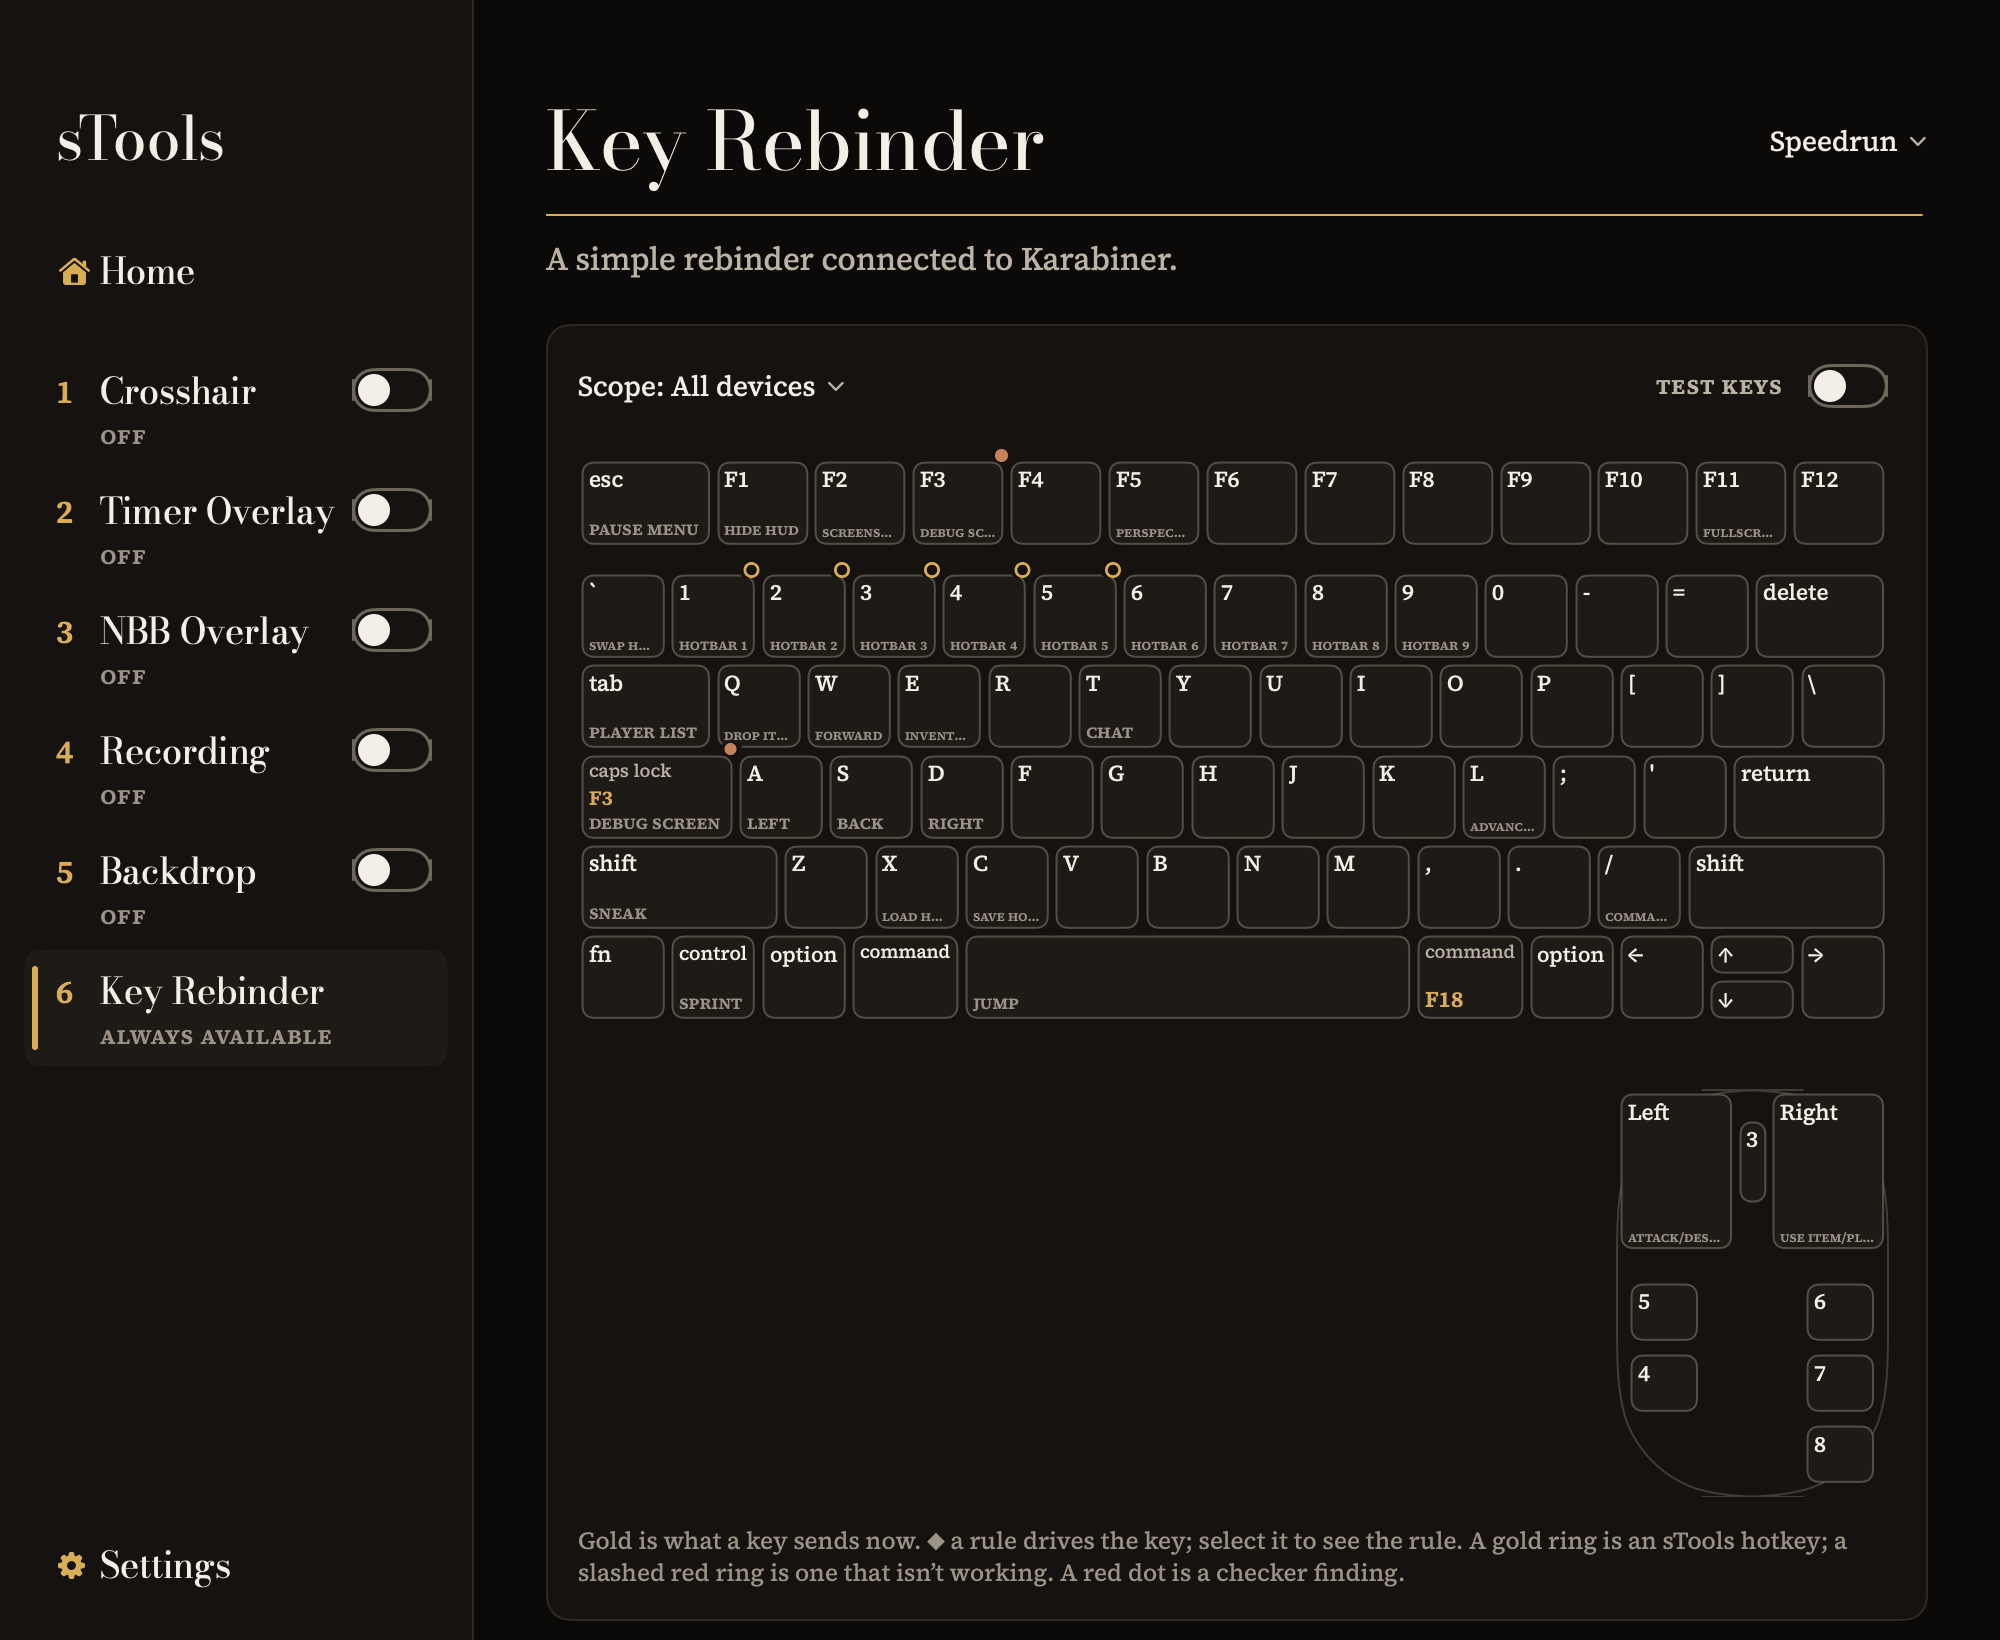
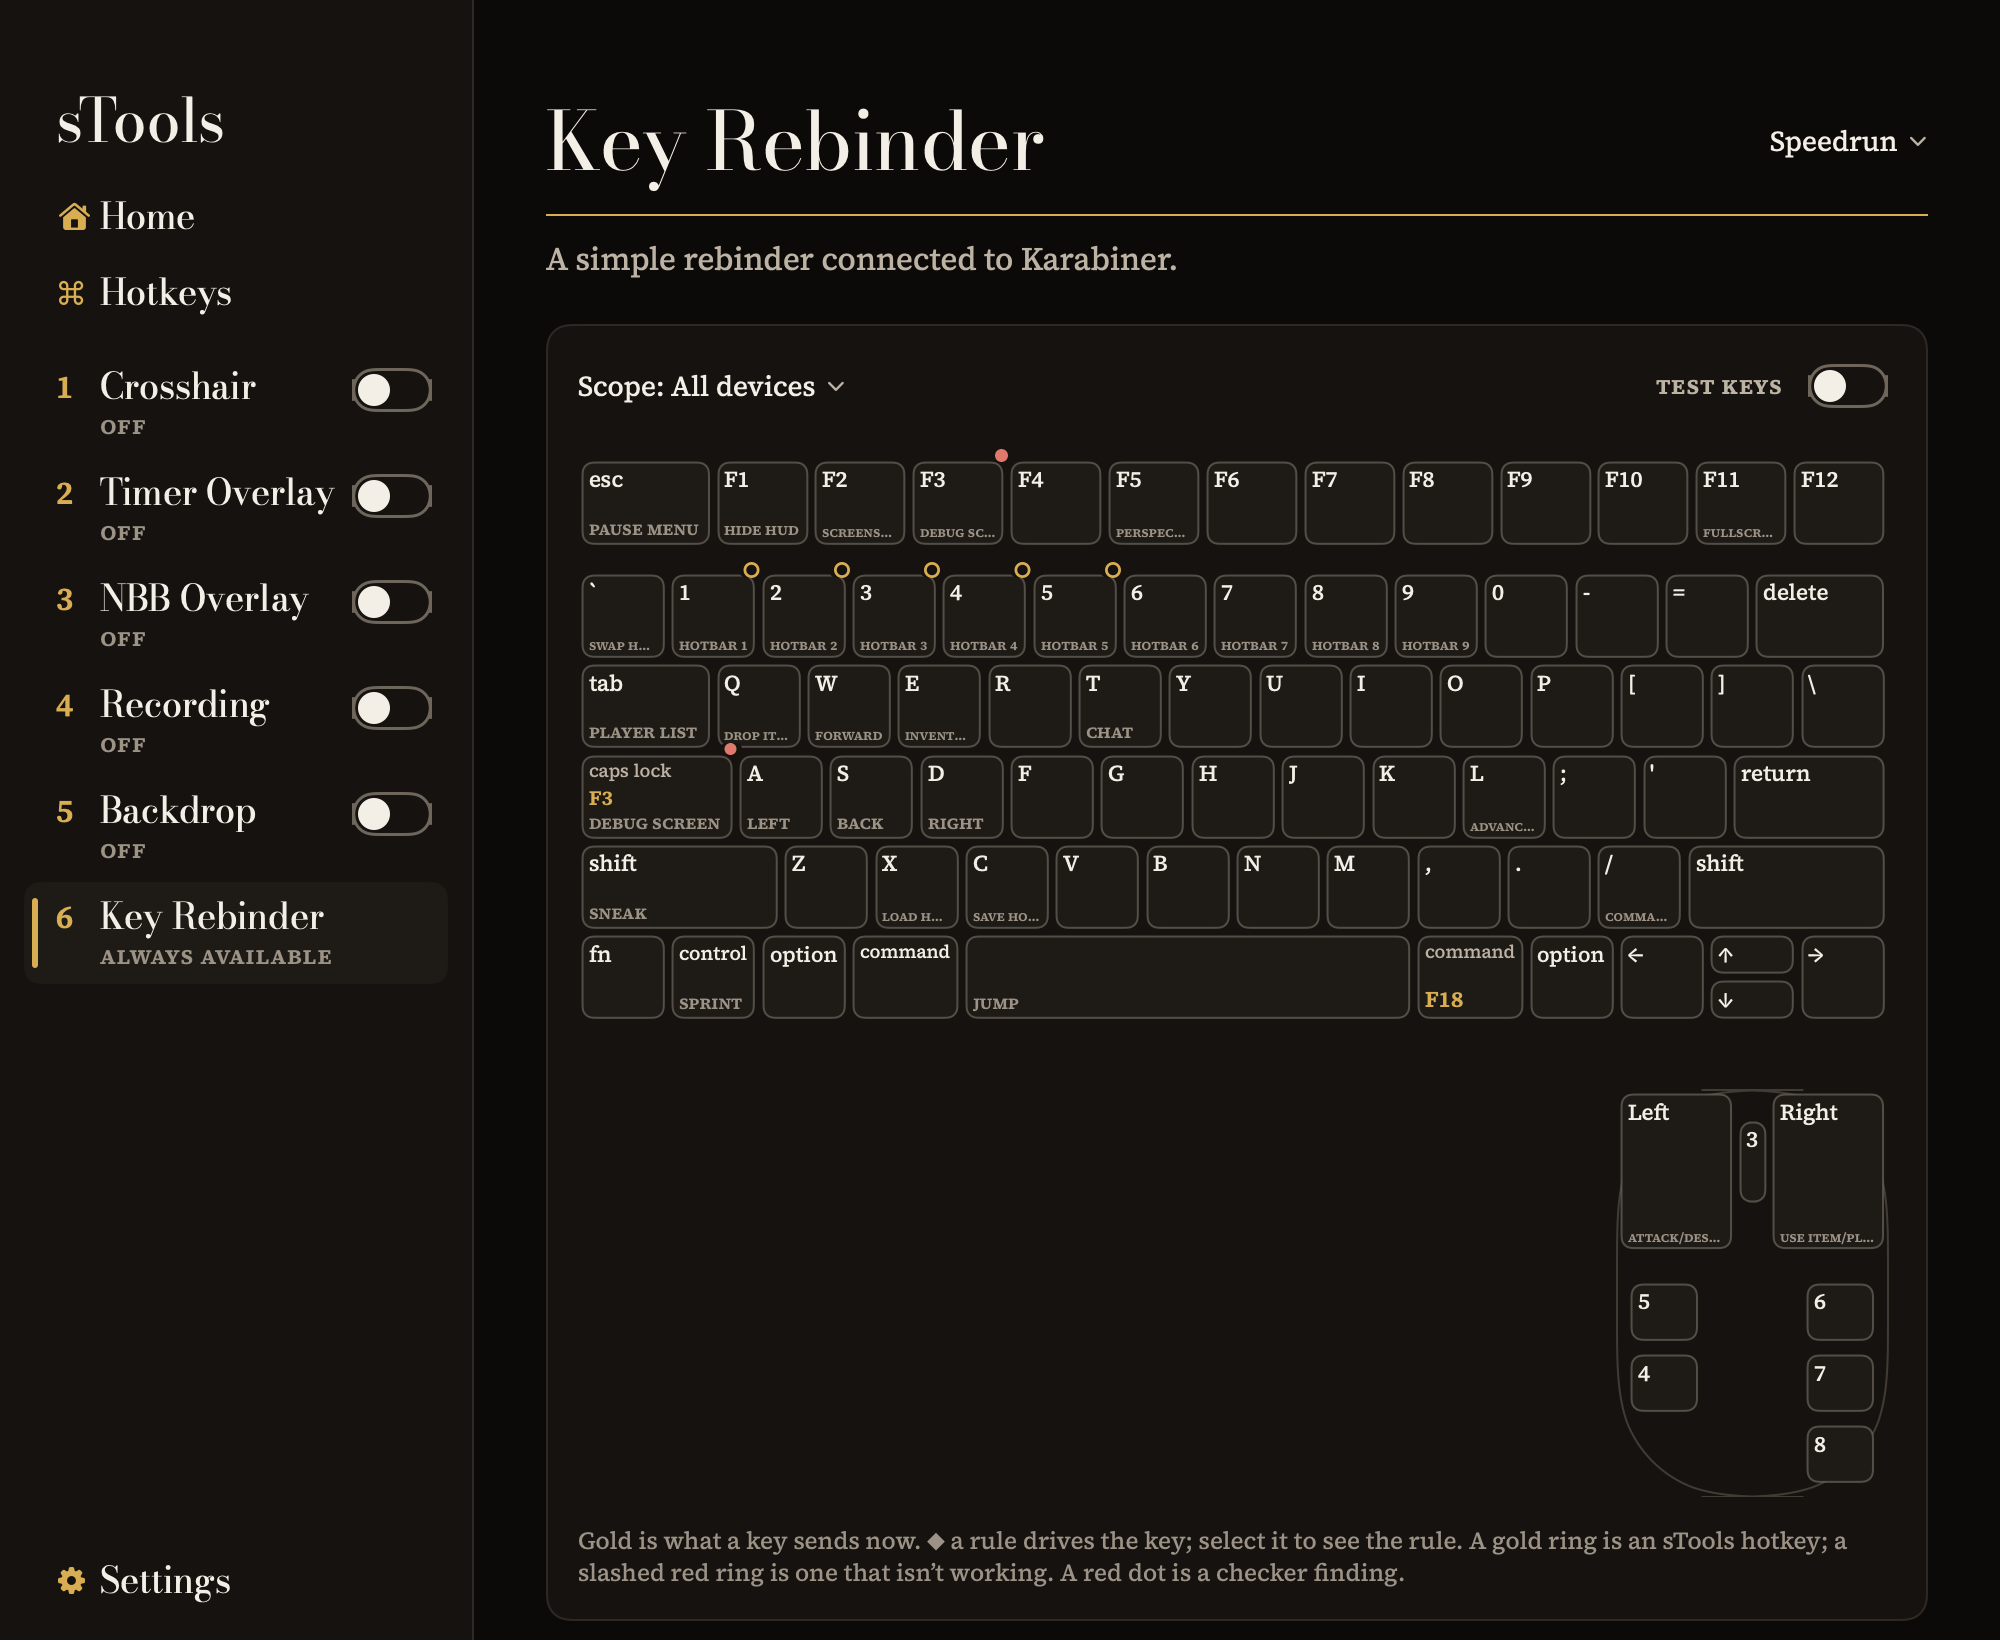
docs(readme): add profile hotkeys and render the Key Rebinder again
The Hotkeys bullet says a key can switch Karabiner-Elements to a given
profile or the next one, and where a profile's key is set. How it's
written says a profile hotkey keeps only the profile's name and goes
through the Key Rebinder's own switch, which Home's tile uses too, so
the tile loads no karabiner.json while the page is closed.

The Key Rebinder screenshot showed the sidebar without its Hotkeys row.
It is rendered again off-screen from the real page, as before: 2x, the
same 1000 x 820 point framing, a temporary settings folder with a
1.16.1 options.txt, a scripted karabiner_cli and a fake hotkey
registrar, so no real settings or Karabiner files were read or written
and nothing reached a screen. It is reduced to a 256-color palette and
drawn with Reduce animations on.

diff --git a/README.md b/README.md
@@ -28,7 +28,7 @@
 sTools is one native app with six tools: a crosshair, a countdown timer, Ninjabrain Bot’s answer drawn over the game, a screen recorder, a backdrop behind the game and an editor for your Karabiner-Elements rebinds. Its overlays are click-through and never take focus from Minecraft. The app is always dark, in serif type with gold accents.
 
 <p align="center">
-  <img src="docs/images/key-rebinder.png" alt="The Key Rebinder page: the sidebar with the six tools, and a drawn keyboard and mouse with Caps Lock rebound to F3 in gold, Minecraft’s keybinds in small capitals under the keys, gold rings on the keys of sTools hotkeys and red dots where the checker found a problem">
+  <img src="docs/images/key-rebinder.png" alt="The Key Rebinder page: the sidebar with Home, Hotkeys and the six tools, and a drawn keyboard and mouse with Caps Lock rebound to F3 in gold, Minecraft’s keybinds in small capitals under the keys, gold rings on the keys of sTools hotkeys and red dots where the checker found a problem">
 </p>
 
 ## The tools
@@ -45,7 +45,7 @@ sTools is one native app with six tools: a crosshair, a countdown timer, Ninjabr
 Each tool has a page with its settings, the rarely needed ones under **Advanced**. Switch tools on and off from the sidebar, from Home or from their pages. Around them:
 
 - **Home.** Every tool at a glance, in sidebar order, with its status, its switch and its key, which you can set right there. Minecraft, Ninjabrain Bot and Karabiner-Elements are drawn as small pictures that light up gold when they’re ready, and one click switches Karabiner-Elements to another profile.
-- **Hotkeys.** Your own keys, alone or with ⌃ ⌥ ⇧ ⌘, switch tools on and off, start the timer and start or stop a recording. A new install has ⌘1–⌘5, one per tool in sidebar order. They work only while sTools or Minecraft is in front, so a browser keeps its own ⌘1, and by default they still fire with Shift or Control held, as when you sneak or sprint. Set a tool’s key on Home or on its page, and everything else on the Hotkeys page.
+- **Hotkeys.** Your own keys, alone or with ⌃ ⌥ ⇧ ⌘, switch tools on and off, start the timer, start or stop a recording, and switch Karabiner-Elements to a given profile or the next one. A new install has ⌘1–⌘5, one per tool in sidebar order. They work only while sTools or Minecraft is in front, so a browser keeps its own ⌘1, and by default they still fire with Shift or Control held, as when you sneak or sprint. Set a tool’s key on Home or on its page, a profile’s on Home’s Key Rebinder tile, and everything else on the Hotkeys page.
 - **The Prologue.** On first launch it walks you through each permission, Ninjabrain Bot and Karabiner-Elements, then has you try every tool. Help ▸ Replay Introduction runs it again.
 - **Settings.** Open at login, sounds, Reduce animations, text size, accent color, update options, export and import of everything as one file, resetting, and Copy Diagnostics for bug reports.
 
@@ -105,7 +105,7 @@ Swift 6’s strict concurrency checking is on everywhere. The UI, the controller
 
 `ToolID.allCases` is the one place the sidebar order is written. The sidebar, its numbers, the Go menu, Home, the key sets and the Prologue’s lists all read it. While the main window is closed it holds no pages at all (the root view draws nothing), so their views, layers and caches are released while the tools keep running.
 
-Home checks Karabiner-Elements, through `karabiner_cli`, and Ninjabrain Bot, with one request to its API while the NBB Overlay is off, as it appears and when sTools comes to the front. Nothing checks on a timer, and nothing runs for Home while another page shows. Its Key Rebinder tile switches profiles through the Key Rebinder’s own `selectProfile` and lets the parsed `karabiner.json` go again afterwards.
+Home checks Karabiner-Elements, through `karabiner_cli`, and Ninjabrain Bot, with one request to its API while the NBB Overlay is off, as it appears and when sTools comes to the front. Nothing checks on a timer, and nothing runs for Home while another page shows. Its Key Rebinder tile switches profiles through the switch the profile hotkeys use, so it loads no `karabiner.json` while the Key Rebinder’s page is closed.
 
 ### Overlays
 
@@ -204,6 +204,8 @@ The key list (`Resources/KeyTable.json`) is generated by `scripts/generate-key-t
 By default hotkeys work only while sTools or Minecraft is in front. Rather than listen everywhere and ignore presses, `HotkeyFrontAppWatcher` takes the registrations away when another app comes to the front, so that app gets its keys untouched (a browser’s ⌘1 still switches tabs), and puts them back when sTools or Minecraft returns. `NSWorkspace` activation notifications and the locator’s instances drive it, never a timer. Recognizing Minecraft needs Accessibility, so without it hotkeys work only in sTools unless Where hotkeys work is set to Everywhere. Hotkeys also pause while sTools listens for raw keys: a field recording a key, text being typed, the Key Rebinder’s tester.
 
 macOS matches a hotkey’s modifiers exactly, so a bare ⌘1 stops working while you hold Shift to sneak or Control to sprint. Hotkeys ▸ Advanced ▸ Also fire while holding Shift or Control, on by default, makes `HotkeyCenter` register each hotkey’s key again with ⇧, ⌃ or both added to the modifiers it holds. A variant’s press is its hotkey’s own press, and a hotkey and its variants count as one key: while one is held, a press of another is a repeat. A variant is left out when the combination is taken (by another hotkey, or by an earlier hotkey’s variant) and when macOS keeps it (the screenshot shortcuts, ⌘Tab and the rest of `HotkeyCombo.reservedCombos`, plus ⌃⇧⌘3 and ⌃⇧⌘4) or refuses it. While sTools is in front, it is also left out when it is one of sTools’ own menu shortcuts: the Go menu’s ⌃⌘0–⌃⌘6 for Home and the tools, ⌃⌘H for Hotkeys, ⌘, for Settings, ⌘[ for Back and ⌘] for Forward. So a hotkey on ⌘1 also fires with Control held in the game, but not in sTools, where ⌃⌘1 opens a page. Variants exist only in what is registered: `hotkeys.json` never changes, and the option is a document of its own, `hotkeyHeldModifiers.json`, which isn’t written until you change it.
+
+A profile hotkey keeps only the profile’s name in the list. Its press goes through the Key Rebinder’s own profile switch (`switchProfile(for:)`), which asks `karabiner_cli` for Karabiner-Elements’ state and profiles again each time.
 
 The list lives in `hotkeys.json` and decodes leniently, so one bad entry never costs the rest. Its migrations never move a saved list; only an empty one gets ⌘1–⌘5.
 
